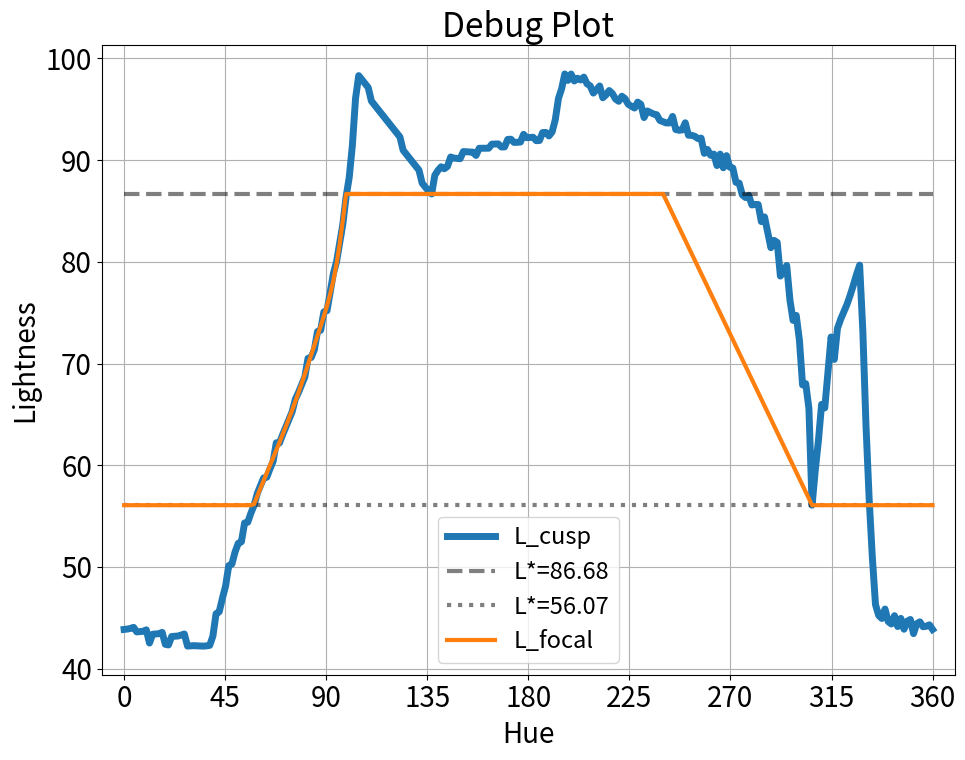
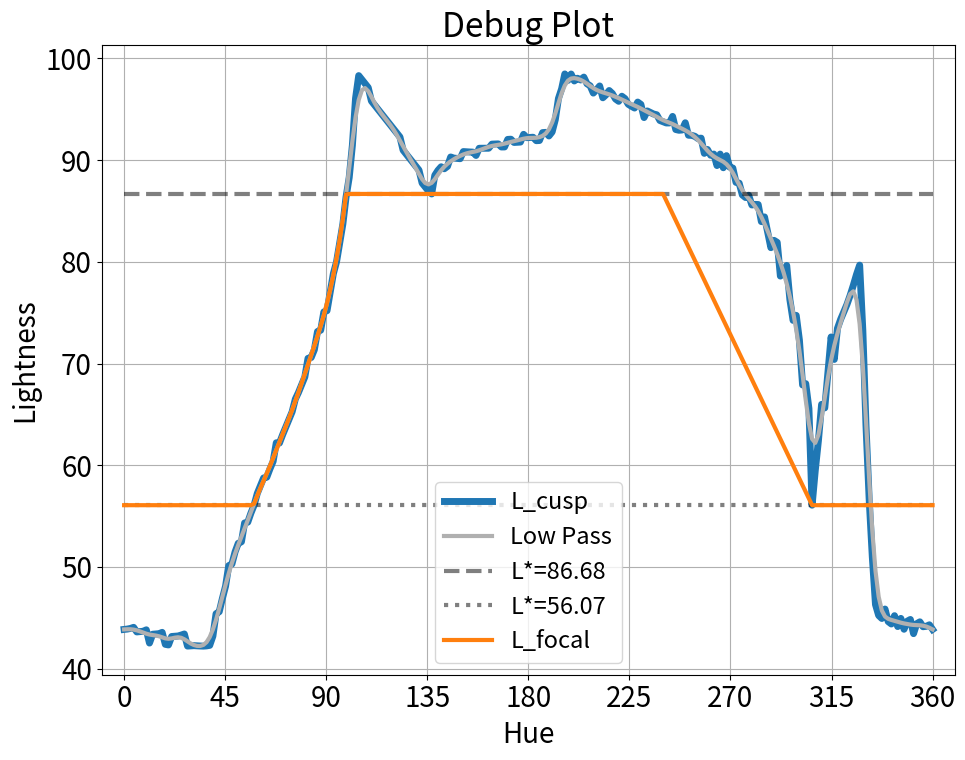
# calculate c_focal. (#93)

diff --git a/2020/012_interpolation_of_cielab_boundary_data/lcusp_lfocal.py b/2020/012_interpolation_of_cielab_boundary_data/lcusp_lfocal.py
@@ -11,7 +11,7 @@ import os
 # import third-party libraries
 import numpy as np
 import matplotlib.pyplot as plt
-from scipy import signal
+from scipy import signal, interpolate
 
 # import my libraries
 import plot_utility as pu
@@ -31,6 +31,7 @@ BT709_BOUNDARY = "./boundary_data/Chroma_BT709_l_256_h_256.npy"
 BT2020_BOUNDAY = "./boundary_data/Chroma_BT2020_l_256_h_256.npy"
 L_CUSP_NAME = "./L_CUSP.npy"
 L_FOCAL_NAME = "./L_FOCAL.npy"
+C_FOCAL_NAME = "./C_FOCAL.npy"
 
 L_SEARCH_SAMPLE = 256
 C_SEARCH_SAMPLE = 256
@@ -134,8 +135,8 @@ def _debug_plot_lc_plane_with_cups(
         outer_lh[..., 1], outer_lh[..., 0], c=pu.BLUE, label="outer gamut")
     ax1.plot(
         inner_cusp[1], inner_cusp[0], 'o', ms=10, c=pu.RED, label="inner cusp")
-    ax1.plot(
-        outer_cusp[1], outer_cusp[0], 'o', ms=10, c=pu.BLUE, label="outer cusp")
+    ax1.plot(outer_cusp[1], outer_cusp[0], 'o',
+             ms=10, c=pu.BLUE, label="outer cusp")
     ax1.plot(lcusp[1], lcusp[0], 's', ms=10, c='k', label="L_cusp")
     ax1.plot([lcusp[1], outer_cusp[1]], [lcusp[0], outer_cusp[0]], 'k--', lw=1)
     # graph_name = f"./figure/HUE = {hue/2/np.pi*360:.1f}.png"
@@ -230,7 +231,7 @@ def calc_l_cusp_specific_hue(hue, inner_lut, outer_lut):
     return lcusp[0]
 
 
-def _debug_plot_l_cusp(l_cusp, l_focal, dips_150, dips_300):
+def _debug_plot_l_cusp(l_cusp, l_focal, dips_150, dips_300, low_pass):
 
     x = np.linspace(0, 360, len(l_cusp))
     ax1 = pu.plot_1_graph(
@@ -251,7 +252,7 @@ def _debug_plot_l_cusp(l_cusp, l_focal, dips_150, dips_300):
         minor_xtick_num=None,
         minor_ytick_num=None)
     ax1.plot(x, l_cusp, lw=5, label="L_cusp")
-    # ax1.plot(x, low_pass, label="Low Pass")
+    ax1.plot(x, low_pass, lw=3, c="#B0B0B0", label="Low Pass")
     ax1.plot(x, np.ones_like(x) * dips_150, 'k--', label=f"L*={dips_150:.2f}",
              alpha=0.5)
     ax1.plot(x, np.ones_like(x) * dips_300, 'k:', label=f"L*={dips_300:.2f}",
@@ -266,6 +267,13 @@ def _debug_plot_l_cusp(l_cusp, l_focal, dips_150, dips_300):
 
 def low_pass_filter(x, nn=4, wn=0.25):
     b1, a1 = signal.butter(nn, wn, "low")
+    result = signal.filtfilt(b1, a1, x)
+
+    return result
+
+
+def low_pass_filter2(x, nn=4, wn=0.25):
+    b1, a1 = signal.bessel(nn, wn, "low")
     result = signal.filtfilt(b1, a1, x)
 
     return result
@@ -316,14 +324,172 @@ def calc_l_focal(l_cusp):
     dips_300, dips_300_idx = get_dips_value_around_300(l_cusp)
     decrement_sample = dips_300_idx - L_FOCAL_240_INDEX + 1
     decrement_data = np.linspace(dips_150, dips_300, decrement_sample)
-    l_cusp_low_pass = low_pass_filter(l_cusp, nn=4, wn=0.2)
+    l_cusp_low_pass = low_pass_filter2(l_cusp, nn=4, wn=0.3)
     l_focal = np.clip(l_cusp_low_pass, dips_300, dips_150)
     l_focal[L_FOCAL_240_INDEX:dips_300_idx + 1] = decrement_data
     l_focal[dips_300_idx:] = dips_300
 
-    _debug_plot_l_cusp(l_cusp, l_focal, dips_150, dips_300)
+    _debug_plot_l_cusp(l_cusp, l_focal, dips_150, dips_300, l_cusp_low_pass)
 
     return l_focal
+
+
+def calc_intersection_with_chroma_axis(inner_cusp, outer_cusp):
+    """
+    calculate the intersection of the two cusps
+    and chroma axis in L*-Chroma plane.
+
+    Returns
+    -------
+    touple
+        (L*star, Chroma). It is the coordinate of the L_cusp.
+    """
+    x1 = inner_cusp[1]
+    y1 = inner_cusp[0]
+    x2 = outer_cusp[1]
+    y2 = outer_cusp[0]
+
+    div_val = (y2 - y1)
+
+    x = x2 - (x2 - x1) / div_val * y2 if div_val != 0 else 0
+
+    return (0, x)
+
+
+def _debug_plot_lc_plane_with_c_focal(
+        inner_lh, outer_lh, inner_cusp, outer_cusp, c_focal, hue):
+    ax1 = pu.plot_1_graph(
+        fontsize=20,
+        figsize=(10, 8),
+        graph_title=f"Debug Plot HUE={hue/2/np.pi*360:.1f}",
+        graph_title_size=None,
+        xlabel="Chroma",
+        ylabel="Lightness",
+        axis_label_size=None,
+        legend_size=17,
+        xlim=None,
+        ylim=[-3, 103],
+        xtick=None,
+        ytick=[x * 10 for x in range(11)],
+        xtick_size=None, ytick_size=None,
+        linewidth=3,
+        minor_xtick_num=None,
+        minor_ytick_num=None)
+    ax1.plot(inner_lh[..., 1], inner_lh[..., 0], c=pu.RED, label="inner gamut")
+    ax1.plot(
+        outer_lh[..., 1], outer_lh[..., 0], c=pu.BLUE, label="outer gamut")
+    ax1.plot(
+        inner_cusp[1], inner_cusp[0], 'o', ms=10, c=pu.RED, label="inner cusp")
+    ax1.plot(outer_cusp[1], outer_cusp[0], 'o',
+             ms=10, c=pu.BLUE, label="outer cusp")
+    ax1.plot(c_focal[1], c_focal[0], 's', ms=10, c='k', label="C_focal")
+    if c_focal[1] < 0:
+        ax1.plot([c_focal[1], outer_cusp[1]], [c_focal[0], outer_cusp[0]],
+                 'k--', lw=1)
+        plt.legend(loc='upper left')
+
+    else:
+        ax1.plot([c_focal[1], inner_cusp[1]], [c_focal[0], inner_cusp[0]],
+                 'k--', lw=1)
+        plt.legend(loc='upper right')
+    graph_name = f"./figure/C_focal_HUE_{hue/2/np.pi*360:.1f}.png"
+    plt.savefig(graph_name, bbox_inches='tight', pad_inches=0.1)
+    # plt.show()
+
+
+def calc_c_focal_specific_hue(hue, inner_lut, outer_lut):
+    """
+    Parameters
+    ----------
+    hue : float
+        hue(the unit is radian)
+    inner_lut : array_like (2D)
+        L*-Chroma 2D-LUT for inner gamut.
+    outer_lut : array_like (2D)
+        L*-Chroma 2D-LUT for outer gamut.
+    """
+    inner_cusp = calc_cusp_in_lc_plane(hue, inner_lut)
+    outer_cusp = calc_cusp_in_lc_plane(hue, outer_lut)
+
+    c_focal = calc_intersection_with_chroma_axis(inner_cusp, outer_cusp)
+
+    # debug
+    # if c_focal[1] == 0:
+    #     inner_lh = _debug_calc_interpolated_lstar_chroma_value(hue, inner_lut)
+    #     outer_lh = _debug_calc_interpolated_lstar_chroma_value(hue, outer_lut)
+    #     _debug_plot_lc_plane_with_c_focal(
+    #         inner_lh, outer_lh, inner_cusp, outer_cusp, c_focal, hue)
+
+    return c_focal[1]
+
+
+def interpolate_where_value_is_zero(x, y):
+    """
+    ゼロ割の影響で y=0 となってしまっている箇所がある。
+    線形補間でそこを別の値に置き換える。
+    """
+    not_zero_idx = (y != 0)
+    f = interpolate.interp1d(x[not_zero_idx], y[not_zero_idx])
+    y_new = f(x)
+
+    return y_new
+
+
+def _debug_plot_c_focal(c_focal):
+    x = np.linspace(0, 360, len(c_focal))
+    ax1 = pu.plot_1_graph(
+        fontsize=20,
+        figsize=(10, 8),
+        graph_title=f"Debug Plot",
+        graph_title_size=None,
+        xlabel="Hue",
+        ylabel="Chroma",
+        axis_label_size=None,
+        legend_size=17,
+        xlim=[-10, 370],
+        ylim=None,
+        xtick=[x * 45 for x in range(9)],
+        ytick=None,
+        linewidth=3)
+    # オリジナルをプロット
+    ax1.plot(x, c_focal, ':', c="#808080", lw=5, label="C_focal_raw")
+    zero_idx = (c_focal == 0)
+    ax1.plot(x[zero_idx], c_focal[zero_idx],
+             'x', ms=10, mew=5, label="Zero Division Error")
+
+    # ゼロ割の欠損値を線形補間
+    c_focal_interp = interpolate_where_value_is_zero(x, c_focal)
+    ax1.plot(x, c_focal_interp, '-', c="#808080",
+             lw=5, label="C_focal_interpolated")
+
+    # ろーぱすふぃるたー
+    low_pass = low_pass_filter2(c_focal_interp, nn=4, wn=0.3)
+    ax1.plot(x, low_pass, '-', lw=3, label="Apply LPF")
+    plt.legend(loc='upper right')
+    plt.savefig("./figure/C_focal.png", bbox_inches='tight', pad_inches=0.1)
+    plt.show()
+
+
+def calc_c_focal():
+    inner_lut = np.load(BT709_BOUNDARY)
+    outer_lut = np.load(BT2020_BOUNDAY)
+
+    c_focal = []
+    h_sample = C_SEARCH_SAMPLE
+    hue_list = np.linspace(0, 2*np.pi, h_sample)
+
+    for idx, hue in enumerate(hue_list):
+        lll = calc_c_focal_specific_hue(hue, inner_lut, outer_lut)
+        c_focal.append(lll)
+        # break
+    c_focal = np.abs(np.array(c_focal))
+    _debug_plot_c_focal(c_focal)
+
+    # 色々と問題があるので補間とかLPFとか処理する
+    c_focal_interp = interpolate_where_value_is_zero(hue_list, c_focal)
+    c_focal_lpf = low_pass_filter2(c_focal_interp, nn=4, wn=0.3)
+
+    return c_focal_lpf
 
 
 def main_func():
@@ -331,6 +497,9 @@ def main_func():
     np.save(L_CUSP_NAME, l_cusp)
     l_focal = calc_l_focal(l_cusp)
     np.save(L_FOCAL_NAME, l_focal)
+    c_focal = calc_c_focal()
+    np.save(C_FOCAL_NAME, c_focal)
+
     # l_cusp = np.load(L_CUSP_NAME)
     # l_focal = np.load(L_FOCAL_NAME)
 
